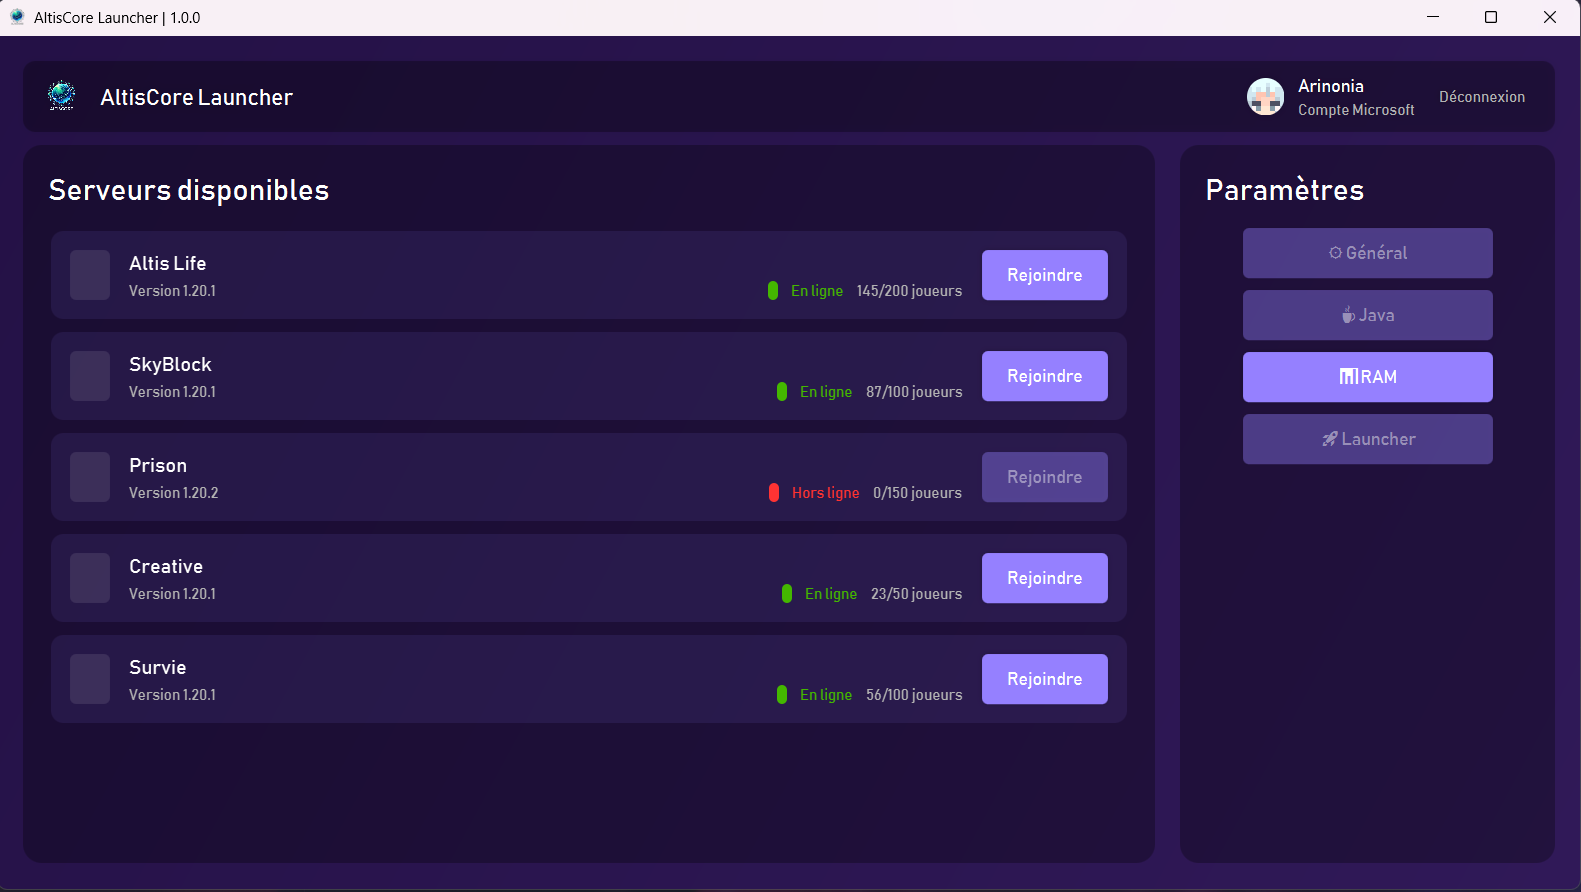
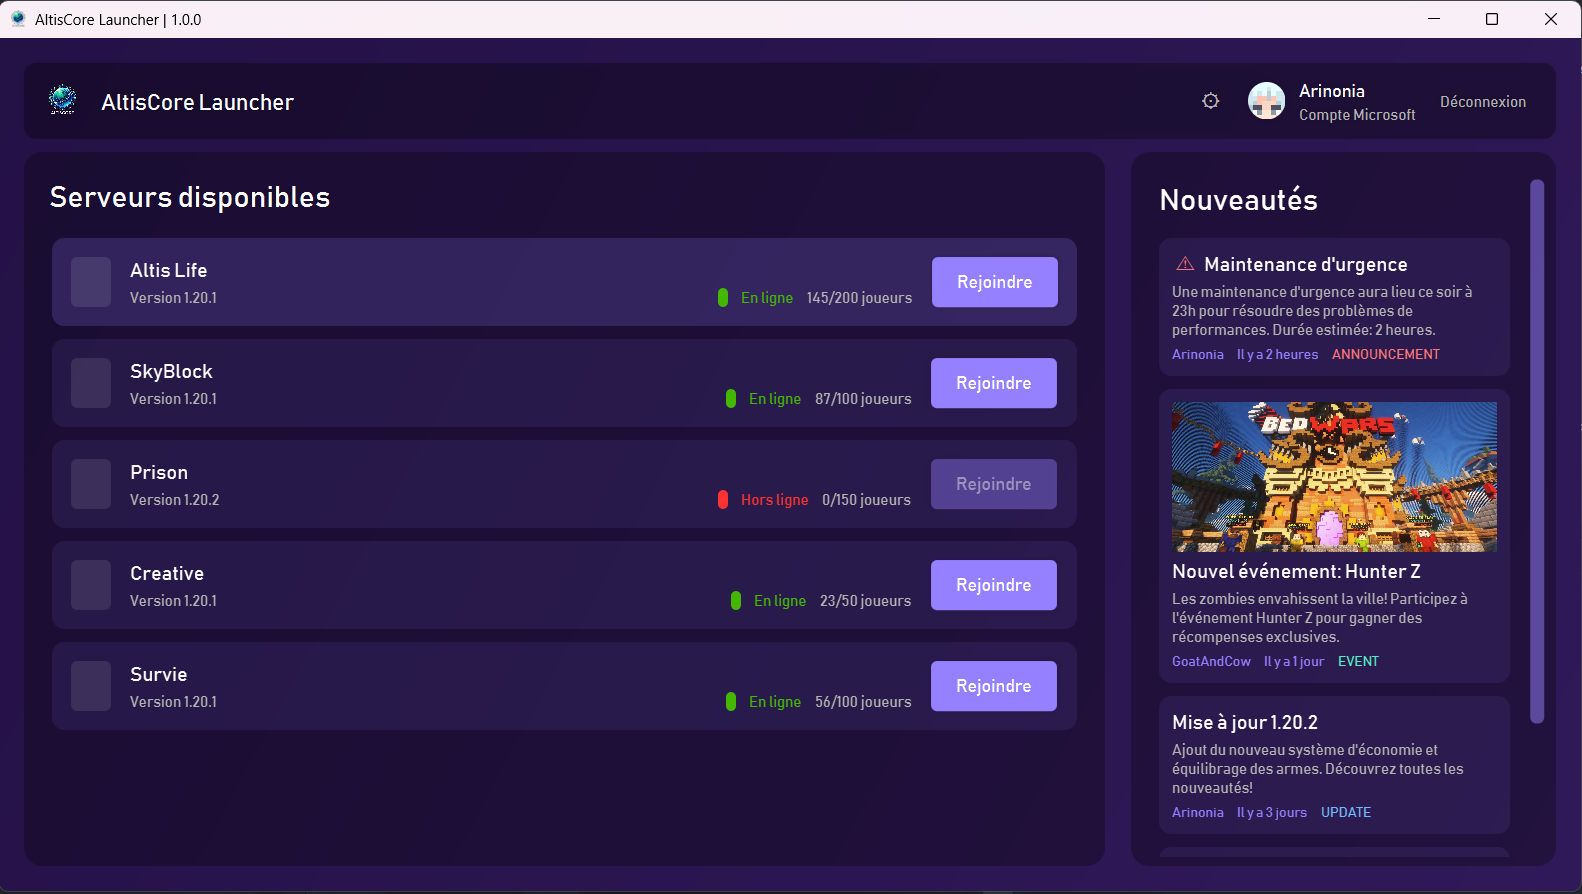
:sparkles: rework ui and implement news loaded from API

diff --git a/src/main/resources/css/scrollbar.css b/src/main/resources/css/scrollbar.css
@@ -1,0 +1,40 @@
+.scroll-pane > .viewport {
+    -fx-background-color: transparent;
+}
+
+.scroll-pane {
+    -fx-background-color: transparent;
+}
+
+.scroll-bar:vertical {
+    -fx-background-color: transparent;
+    -fx-border-color: transparent;
+}
+
+.scroll-bar:vertical .track {
+    -fx-background-color: transparent;
+    -fx-border-color: transparent;
+}
+
+.scroll-bar:vertical .thumb {
+    -fx-background-color: rgba(149, 128, 255, 0.5);
+    -fx-background-radius: 5px;
+}
+
+.scroll-bar:vertical .thumb:hover {
+    -fx-background-color: rgba(149, 128, 255, 0.7);
+}
+
+.scroll-bar:vertical .thumb:pressed {
+    -fx-background-color: rgba(149, 128, 255, 0.9);
+}
+
+.scroll-bar:vertical .increment-button, .scroll-bar:vertical .decrement-button {
+    -fx-background-color: transparent;
+    -fx-border-color: transparent;
+}
+
+.scroll-bar:vertical .increment-arrow, .scroll-bar:vertical .decrement-arrow {
+    -fx-background-color: transparent;
+    -fx-border-color: transparent;
+}

diff --git a/src/main/java/fr/arinonia/launcher/ui/components/NewsCard.java b/src/main/java/fr/arinonia/launcher/ui/components/NewsCard.java
@@ -1,0 +1,105 @@
+package fr.arinonia.launcher.ui.components;
+
+import fr.arinonia.launcher.api.models.News;
+import javafx.geometry.Insets;
+import javafx.geometry.Pos;
+import javafx.scene.control.Label;
+import javafx.scene.image.Image;
+import javafx.scene.image.ImageView;
+import javafx.scene.layout.HBox;
+import javafx.scene.layout.StackPane;
+import javafx.scene.layout.VBox;
+import javafx.scene.shape.Rectangle;
+
+public class NewsCard extends VBox {
+    private final String title;
+    private final String content;
+    private final String imageUrl;
+    private final String author;
+    private final News.NewsType type;
+    private final String createdAt;
+    private final boolean important;
+
+    public NewsCard(final String title, final String content, final String imageUrl,
+                    final String author, final News.NewsType type, final String createdAt,
+                    final boolean important) {
+        super(5);
+        this.title = title;
+        this.content = content;
+        this.imageUrl = imageUrl;
+        this.author = author;
+        this.type = type;
+        this.createdAt = createdAt;
+        this.important = important;
+
+        setupCard();
+    }
+
+    private void setupCard() {
+        this.setPadding(new Insets(10));
+        this.setStyle(getBackgroundStyle(false));
+
+        if (this.imageUrl != null) {
+            final ImageView imageView = new ImageView(new Image(this.imageUrl, true));
+            imageView.setFitWidth(260);
+
+            final StackPane imageContainer = new StackPane(imageView);
+            imageContainer.setStyle("-fx-background-color: rgba(0, 0, 0, 0.2);");
+            imageContainer.setPrefHeight(120);
+            imageContainer.setMinHeight(120);
+            imageContainer.setMaxHeight(120);
+
+            imageView.setPreserveRatio(true);
+            imageContainer.setClip(new Rectangle(260, 120));
+
+            this.getChildren().add(imageContainer);
+        }
+
+        final Label titleLabel = new Label(this.title);
+        titleLabel.setStyle("-fx-text-fill: white; -fx-font-size: 16px; -fx-font-family: 'Bahnschrift'; -fx-font-weight: bold;");
+        if (this.important) {
+            final Label warningLabel = new Label(" ⚠ ");
+            warningLabel.setStyle("-fx-text-fill: #ff7675;");
+            titleLabel.setGraphic(warningLabel);
+        }
+
+        final Label contentLabel = new Label(this.content);
+        contentLabel.setStyle("-fx-text-fill: rgb(180, 180, 180); -fx-font-size: 12px; -fx-font-family: 'Bahnschrift';");
+        contentLabel.setWrapText(true);
+        contentLabel.setMaxHeight(60);
+
+
+        final HBox metaInfo = new HBox(10);
+        metaInfo.setAlignment(Pos.CENTER_LEFT);
+
+        final Label authorLabel = new Label(this.author);
+        authorLabel.setStyle("-fx-text-fill: rgb(149, 128, 255); -fx-font-size: 11px; -fx-font-family: 'Bahnschrift';");
+
+        final Label dateLabel = new Label(this.createdAt);
+        dateLabel.setStyle("-fx-text-fill: rgb(149, 128, 255); -fx-font-size: 11px; -fx-font-family: 'Bahnschrift';");
+
+        final Label typeLabel = new Label(this.type.toString());
+        typeLabel.setStyle("-fx-text-fill: " + getTypeColor() + "; -fx-font-size: 11px; -fx-font-family: 'Bahnschrift';");
+
+        metaInfo.getChildren().addAll(authorLabel, dateLabel, typeLabel);
+
+        this.getChildren().addAll(titleLabel, contentLabel, metaInfo);
+
+        this.setOnMouseEntered(e -> this.setStyle(getBackgroundStyle(true)));
+        this.setOnMouseExited(e -> this.setStyle(getBackgroundStyle(false)));
+    }
+
+    private String getBackgroundStyle(final boolean hover) {
+        final String baseOpacity = hover ? "0.2" : "0.1";
+        return "-fx-background-color: rgba(149, 128, 255, " + baseOpacity + "); -fx-background-radius: 10;";
+    }
+
+    private String getTypeColor() {
+        return switch (this.type) {
+            case ANNOUNCEMENT -> "#ff7675";
+            case UPDATE -> "#74b9ff";
+            case EVENT -> "#55efc4";
+            default -> "rgb(149, 128, 255)";
+        };
+    }
+}

diff --git a/src/main/java/fr/arinonia/launcher/ui/panels/home/NewsSection.java b/src/main/java/fr/arinonia/launcher/ui/panels/home/NewsSection.java
@@ -1,0 +1,67 @@
+package fr.arinonia.launcher.ui.panels.home;
+
+import fr.arinonia.launcher.Launcher;
+import fr.arinonia.launcher.api.models.News;
+import fr.arinonia.launcher.ui.components.NewsCard;
+import javafx.geometry.Insets;
+import javafx.geometry.Pos;
+import javafx.scene.control.Label;
+import javafx.scene.control.ScrollPane;
+import javafx.scene.layout.Priority;
+import javafx.scene.layout.VBox;
+
+import java.util.List;
+
+public class NewsSection extends VBox {
+    private final Launcher launcher;
+    public NewsSection(final Launcher launcher) {
+        super(15.0D);
+        this.launcher = launcher;
+        this.setPadding(new Insets(5.0D));
+        this.setPrefWidth(340.0D);
+        this.setStyle("-fx-background-color: rgba(0, 0, 0, 0.3); -fx-background-radius: 15;");
+        setupComponents();
+    }
+
+    private void setupComponents() {
+        final Label newsTitle = new Label("Nouveautés");
+        newsTitle.setStyle("-fx-text-fill: white; -fx-font-size: 24px; -fx-font-family: 'Bahnschrift'; -fx-font-weight: bold;");
+        newsTitle.setPadding(new Insets(15, 15, 5, 15));
+
+        final VBox newsContainer = new VBox(10);
+        newsContainer.setAlignment(Pos.TOP_LEFT);
+        newsContainer.setPadding(new Insets(0, 20, 15, 15));
+        newsContainer.setStyle("-fx-background-insets: 0 10 0 0;"); // Ajoute une marge à droite
+
+
+        //newsContainer.getChildren().addAll(createNews());
+
+        final VBox contentBox = new VBox(10);
+        contentBox.getChildren().addAll(newsTitle, newsContainer);
+
+        final ScrollPane scrollPane = new ScrollPane();
+        scrollPane.setStyle("-fx-background: transparent; -fx-background-color: transparent; -fx-border-color: transparent;");
+        scrollPane.setFitToWidth(true);
+        scrollPane.setHbarPolicy(ScrollPane.ScrollBarPolicy.NEVER);
+        scrollPane.setContent(contentBox);
+        scrollPane.getStylesheets().add(getClass().getResource("/css/scrollbar.css").toExternalForm());
+        VBox.setVgrow(scrollPane, Priority.ALWAYS);
+
+        this.getChildren().add(scrollPane);
+        VBox.setVgrow(this, Priority.ALWAYS);
+
+        final List<News> newsList = launcher.getNews();
+        for (final News news : newsList) {
+            final NewsCard newsCard = new NewsCard(
+                    news.getTitle(),
+                    news.getContent(),
+                    news.getImageUrl(),
+                    news.getAuthor(),
+                    news.getType(),
+                    news.getCreatedAt(),
+                    news.isImportant()
+            );
+            newsContainer.getChildren().add(newsCard);
+        }
+    }
+}

diff --git a/src/main/java/fr/arinonia/launcher/api/models/News.java b/src/main/java/fr/arinonia/launcher/api/models/News.java
@@ -8,7 +8,7 @@ public class News {
     private final String content;
     private final String imageUrl;
     private final String author;
-    private final NewsType type;
+    private final String type;
     private final String createdAt;
     private final boolean important;
 
@@ -19,7 +19,7 @@ public class News {
         this.content = content;
         this.imageUrl = imageUrl;
         this.author = author;
-        this.type = NewsType.fromValue(type);
+        this.type = type;
         this.createdAt = createdAt;
         this.important = important;
     }
@@ -45,7 +45,7 @@ public class News {
     }
 
     public NewsType getType() {
-        return this.type;
+        return NewsType.fromValue(this.type);
     }
 
     public String getCreatedAt() {
@@ -70,6 +70,20 @@ public class News {
     @Override
     public int hashCode() {
         return Objects.hash(this.id);
+    }
+
+    @Override
+    public String toString() {
+        return "News{" +
+                "id='" + id + '\'' +
+                ", title='" + title + '\'' +
+                ", content='" + content + '\'' +
+                ", imageUrl='" + imageUrl + '\'' +
+                ", author='" + author + '\'' +
+                ", type=" + type +
+                ", createdAt='" + createdAt + '\'' +
+                ", important=" + important +
+                '}';
     }
 
     public enum NewsType {
@@ -98,7 +112,7 @@ public class News {
 
         public static NewsType fromValue(final String value) {
             for (final NewsType type : values()) {
-                if (type.getValue().equals(value)) {
+                if (type.getValue().equalsIgnoreCase(value)) {
                     return type;
                 }
             }

diff --git a/src/main/java/fr/arinonia/launcher/ui/panels/home/TopBar.java b/src/main/java/fr/arinonia/launcher/ui/panels/home/TopBar.java
@@ -65,11 +65,24 @@ public class TopBar extends HBox {
 
     private Node createAccountSection() {
         final Account account = this.homePanel.getPanelManager().getLauncher().getSelectedAccount();
-        if (account == null) {
-            return createAuthButton();
-        } else {
-            return createAccountInfo(account);
-        }
+        final HBox container = new HBox(10.0D);
+        container.setAlignment(Pos.CENTER);
+
+        final CustomButton settingsButton = new CustomButton("⚙");
+        settingsButton.setStyle("-fx-background-color: transparent; -fx-text-fill: rgb(180, 180, 180); -fx-font-size: 18px;");
+        settingsButton.setOnMouseEntered(e ->
+                settingsButton.setStyle("-fx-background-color: rgba(180, 180, 180, 0.2); -fx-text-fill: white; -fx-font-size: 18px;")
+        );
+        settingsButton.setOnMouseExited(e ->
+                settingsButton.setStyle("-fx-background-color: transparent; -fx-text-fill: rgb(180, 180, 180); -fx-font-size: 18px;")
+        );
+        settingsButton.setOnAction(e -> {
+            //! Open settings
+        });
+
+        final Node mainSection = account == null ? createAuthButton() : createAccountInfo(account);
+        container.getChildren().addAll(settingsButton, mainSection);
+        return container;
     }
 
     private CustomButton createAuthButton() {

diff --git a/src/main/java/fr/arinonia/launcher/Launcher.java b/src/main/java/fr/arinonia/launcher/Launcher.java
@@ -1,10 +1,12 @@
 package fr.arinonia.launcher;
 
+import fr.arinonia.launcher.api.models.News;
 import fr.arinonia.launcher.auth.AuthenticationManager;
 import fr.arinonia.launcher.config.AuthConfigManager;
 import fr.arinonia.launcher.config.models.Account;
 import fr.arinonia.launcher.file.FileManager;
 import fr.arinonia.launcher.loader.LauncherLoader;
+import fr.arinonia.launcher.loader.NewsLoader;
 import fr.arinonia.launcher.ui.PanelManager;
 import fr.arinonia.launcher.ui.panels.home.HomePanel;
 import fr.arinonia.launcher.ui.panels.loading.LoadingPanel;
@@ -12,6 +14,8 @@ import fr.arinonia.launcher.ui.panels.loading.LoadingPanel;
 import javafx.stage.Stage;
 import org.slf4j.Logger;
 import org.slf4j.LoggerFactory;
+
+import java.util.List;
 
 public class Launcher {
 
@@ -49,6 +53,9 @@ public class Launcher {
         this.selectedAccount = selectedAccount;
     }
 
+    public List<News> getNews() {
+        return this.launcherLoader.getComponent(NewsLoader.class).getNews();
+    }
     public Account getSelectedAccount() {
         return this.selectedAccount;
     }
@@ -60,4 +67,5 @@ public class Launcher {
     public LauncherLoader getLauncherLoader() {
         return this.launcherLoader;
     }
+
 }

diff --git a/src/main/java/fr/arinonia/launcher/ui/panels/home/HomePanel.java b/src/main/java/fr/arinonia/launcher/ui/panels/home/HomePanel.java
@@ -34,9 +34,9 @@ public class HomePanel extends AbstractPanel {
         final VBox serversSection = createServersSection();
         HBox.setHgrow(serversSection, Priority.ALWAYS);
 
-        final SettingsSection settingsSection = new SettingsSection();
+        final NewsSection newsSection = new NewsSection(this.panelManager.getLauncher());
 
-        contentContainer.getChildren().addAll(serversSection, settingsSection);
+        contentContainer.getChildren().addAll(serversSection, newsSection);
         return contentContainer;
     }
 

diff --git a/src/main/java/fr/arinonia/launcher/ui/panels/loading/LoadingPanel.java b/src/main/java/fr/arinonia/launcher/ui/panels/loading/LoadingPanel.java
@@ -134,7 +134,7 @@ public class LoadingPanel extends AbstractPanel {
         this.getPanelManager().getLauncher().getLauncherLoader().loadAll(new CallBack() {
             @Override
             public void onProgress(final double progress, final String status) {
-                System.out.println("Progress: " + progress + " - " + status);
+                //System.out.println("Progress: " + progress + " - " + status);
                 Platform.runLater(() -> updateStatus(status, null, progress));
             }
 

diff --git a/src/main/java/fr/arinonia/launcher/api/models/Server.java b/src/main/java/fr/arinonia/launcher/api/models/Server.java
@@ -3,6 +3,7 @@ package fr.arinonia.launcher.api.models;
 public class Server {
     private final String name;
     private final String host;
+    //list model for server
 
     public Server(final String name, final String host) {
         this.name = name;

diff --git a/src/main/java/fr/arinonia/launcher/loader/NewsLoader.java b/src/main/java/fr/arinonia/launcher/loader/NewsLoader.java
@@ -22,7 +22,6 @@ public class NewsLoader extends LoadableComponent {
             this.news.clear();
             this.news.addAll(newsResponse);
             LOGGER.info("Loaded {} news items", newsResponse.size());
-
         });
     }
 

diff --git a/README.md b/README.md
@@ -30,7 +30,7 @@ A modern and sleek Minecraft launcher built with JavaFX, designed specifically f
 ![Home Panel](screenshots/home.png)
 
 ### Settings Panel
-![Settings Panel](screenshots/settings.png)
+![Settings Panel](https://placehold.co/800x400?text=Todo)
 
 </details>
 
